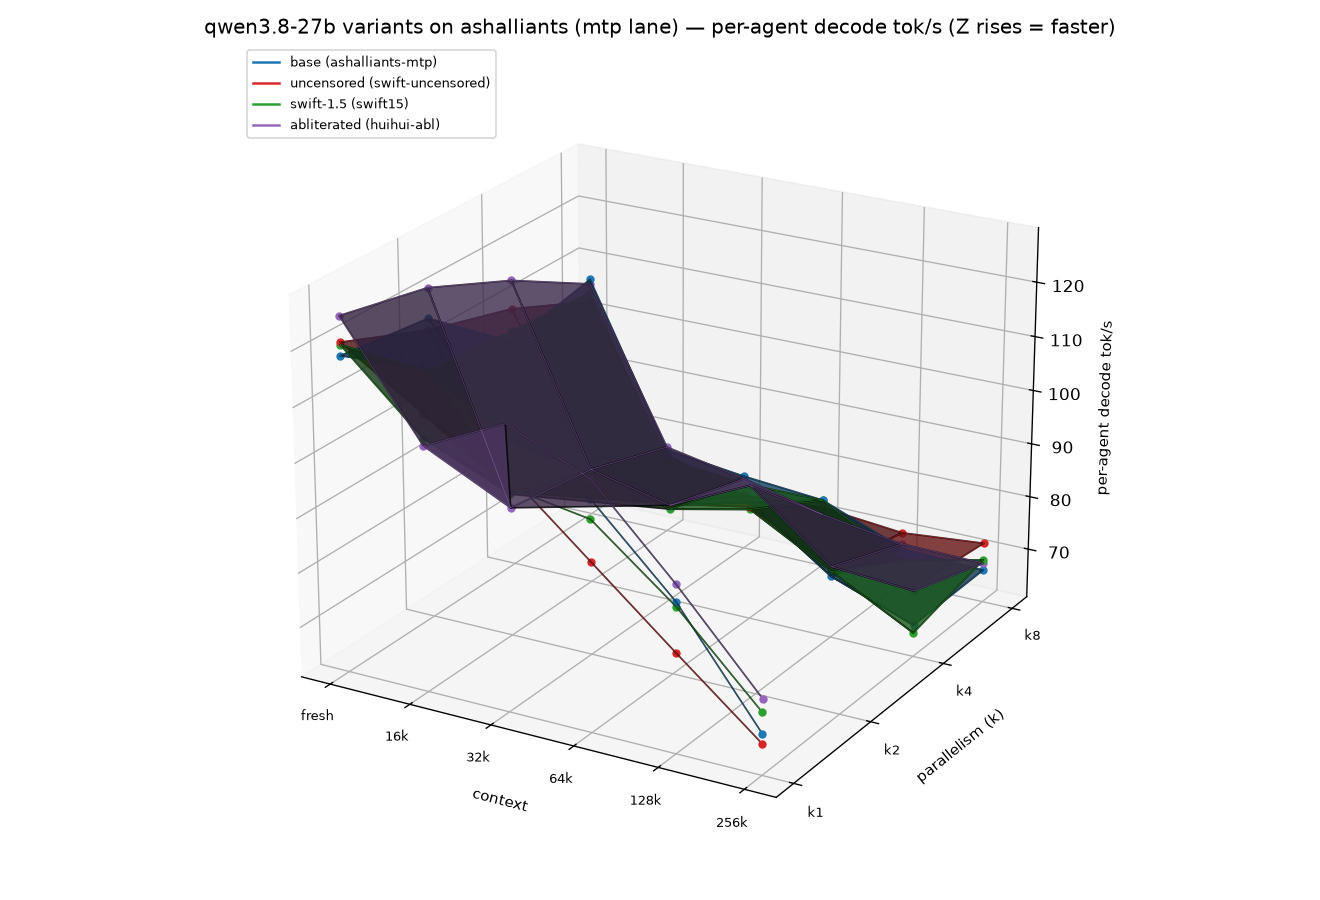
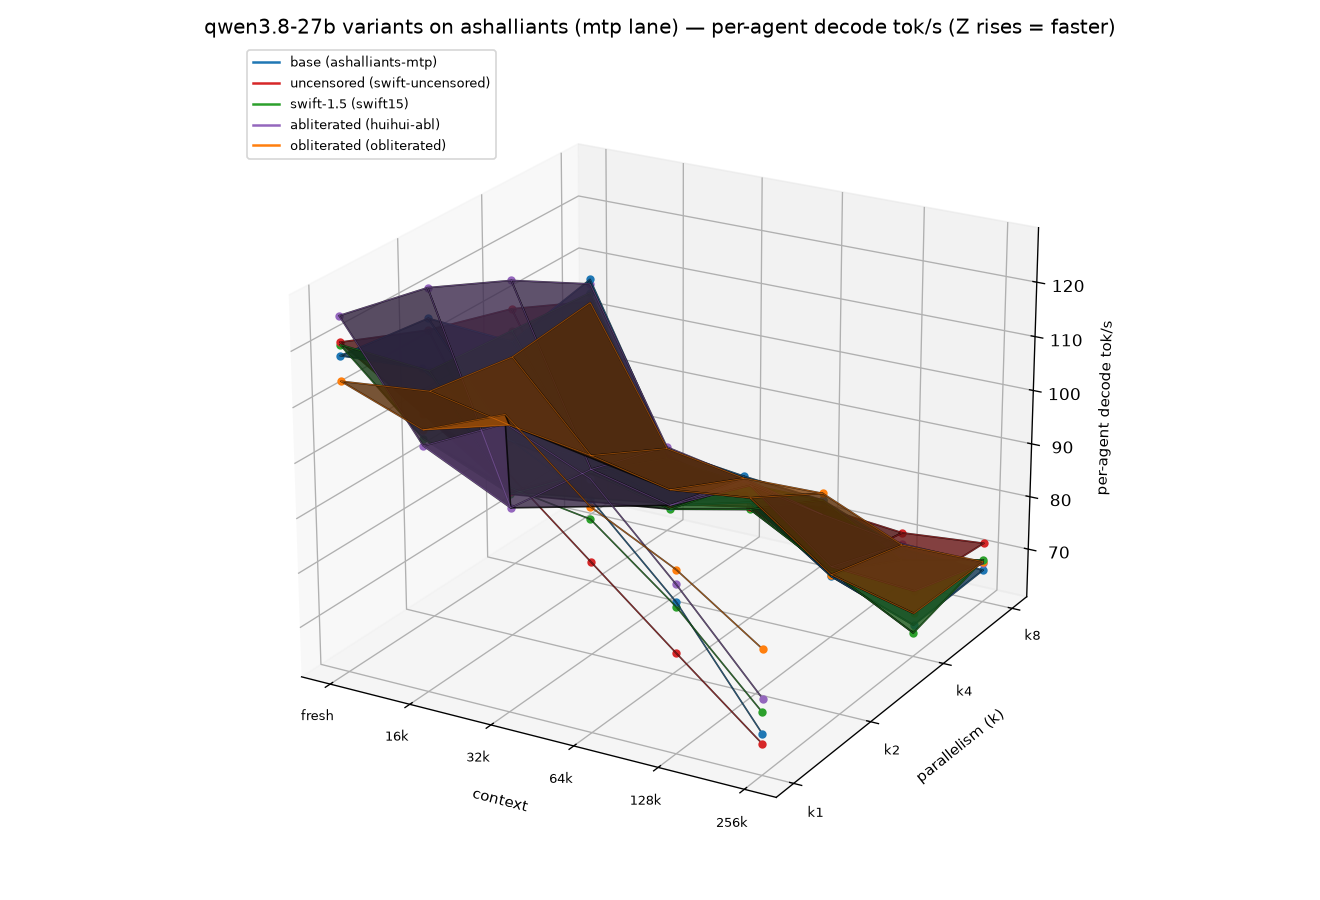
feat(bench): finalize qwen3.8 variant campaign results and report
- Record 20/20 cells for obliterated on ashalliants mtp lane and screening
  cells for GGUF arms (thinkingcap, davidau-fable, humanlike, fable5) on
  prism llama.cpp CUDA with q5_1/q4_0 KV.
- Update analyze.py QWEN_VARIANTS to include obliterated in the 3D winner plot.
- Update report.py ENGINE_CONFIG with obliterated and GGUF arm entries,
  refine COMPARABLE_EXCLUDED and LANE_CONTROL to benchmark variants against
  their respective lane baselines.
- Document coder390 DFlash2 24 GB VRAM runtime reservation bounds and
  missing vision component requirement in campaign.sh and report.py.
- Regenerate summary.csv, frontier.json, 3D plots, and INFERENCE-ENGINES.md.

diff --git a/benchmarks/engines-2026-10/report.py b/benchmarks/engines-2026-10/report.py
@@ -96,7 +96,10 @@ def main():
     # artifact has no dflash2 draft weights, so it is comparable only
     # to ashalliants-mtp, never to the ashalliants-df2 winner. Exclude
     # it from the cross-engine ranking and rank it inside its own lane.
-    COMPARABLE_EXCLUDED = {"swift-uncensored"}
+    COMPARABLE_EXCLUDED = {
+        "swift-uncensored", "swift15", "huihui-abl", "obliterated",
+        "thinkingcap", "davidau-fable", "humanlike", "fable5",
+    }
     winner = {}
     for model in by_model:
         grids = {tag: grid for (m, tag), grid in cells.items() if m == model}
@@ -127,8 +130,15 @@ def main():
                 hi = f"C8 × {lbl}: only `{tag}` measured ({fmt(t)} tok/s)"
         pk_tag, _, _, pk_t = max(okc, key=lambda x: x[3])
         # Same-lane sibling for every excluded variant with data.
-        LANE_CONTROL = {"swift-uncensored": "ashalliants-mtp"}
+        LANE_CONTROL = {
+            "swift-uncensored": "ashalliants-mtp",
+            "swift15": "ashalliants-mtp",
+            "huihui-abl": "ashalliants-mtp",
+            "obliterated": "ashalliants-mtp",
+        }
         for var in COMPARABLE_EXCLUDED:
+            if var not in LANE_CONTROL:
+                continue
             vgrid = grids.get(var)
             if not vgrid:
                 continue
@@ -221,12 +231,29 @@ def main():
                        "abliterated; same 0.15.0 binary as ashalliants-mtp)",
                        "spec=mtp, ctx 262144, NINFER_MODEL override, host KV "
                        "shim 2048 MiB, FALLBACK=off"),
+        "obliterated": ("`obliterated_qwen3_8_27b.ninfer` (OBLITERATUS "
+                        "Qwen3.8-27B-OBLITERATED; same 0.15.0 binary as "
+                        "ashalliants-mtp)",
+                        "spec=mtp, ctx 262144, NINFER_MODEL override, host KV "
+                        "shim 2048 MiB, FALLBACK=off"),
         "buun-qwen": ("`Qwen3.8-27B-UD-IQ4_XS.gguf` (buun-llama-cpp b9637)",
                       "TCQ KV `turbo2_tcq`, `-c 524288 -np 8` "
                       "(per-slot 65536), flash-attn"),
         "gguf-q4xs": ("`Qwen3.8-27B-UD-IQ4_XS.gguf` (prism llama.cpp CUDA)",
                       "q8_0 KV, `-c 262144 -np 8` (per-slot 32768), "
                       "flash-attn"),
+        "thinkingcap": ("`ThinkingCap-Qwen3.8-27B-Q4_K_M.gguf` (prism llama.cpp CUDA)",
+                        "`-ngl 99 -fa on -c 262144 -np 8 -ctk q5_1 -ctv q4_0` "
+                        "(per-slot 32768)"),
+        "davidau-fable": ("`DavidAU-TurboFCFusion-Qwen3.8-27B-Q4_K_M.gguf` (prism llama.cpp CUDA)",
+                          "`-ngl 99 -fa on -c 262144 -np 8 -ctk q5_1 -ctv q4_0` "
+                          "(per-slot 32768)"),
+        "humanlike": ("`Humanlike-Qwen3.8-27B-IQ4_XS.gguf` (prism llama.cpp CUDA)",
+                      "`-ngl 99 -fa on -c 262144 -np 8 -ctk q5_1 -ctv q4_0` "
+                      "(per-slot 32768)"),
+        "fable5": ("`Qwen3.8-27B-LoRA-IQ4_XS-MTP.gguf` (prism llama.cpp CUDA)",
+                   "`-ngl 99 -fa on -c 262144 -np 8 -ctk q5_1 -ctv q4_0` "
+                   "(per-slot 32768)"),
     }
 
     # Per-model -> per-engine sections: configuration + result table
@@ -269,6 +296,21 @@ def main():
         "abliterated weights are the only variable). Do not rank "
         "swift-uncensored against `ashalliants-df2`.",
         "",
+        "The 2026-10-10/11 variant arms (`swift15`, `huihui-abl`, "
+        "`obliterated`) ran on the same **mtp lane** with `NINFER_MODEL` "
+        "overrides of the same 0.15.0 binary, all achieving 20/20 cells: "
+        "they are directly comparable to `ashalliants-mtp`/`swift-uncensored` "
+        "and to each other — not to `ashalliants-df2`. "
+        "The four GGUF-only arms (`thinkingcap`, `davidau-fable`, `humanlike`, "
+        "`fable5`) ran on prism llama.cpp CUDA with `q5_1/q4_0` KV cache "
+        "(fitting the 24 GB card); with `-c 262144 -np 8`, each slot gets "
+        "32k context, measuring fresh C1–C8 cells while deep contexts "
+        "exceed single-slot bounds. "
+        "`coder390` carried publisher tokenizer drift (resolved via stock "
+        "resources), but its dequantized BF16 DFlash2 draft (20.44 GiB artifact) "
+        "plus the 0.15.0 DFlash2 runtime reservation (6.01 GiB) exceeds the "
+        "24 GiB card capacity by 1.05 GiB; dropping vision is rejected by the "
+        "engine config.",
     ]
 
     # Overflow ledger.
@@ -300,7 +342,7 @@ def main():
     # best measured per-agent tok/s and which engine(s) achieved it.
     # Mirrors the per-engine tables above but answers "at this
     # context×parallelism, which engine wins this model family".
-    LANE_VARIANTS = {"swift-uncensored"}
+    LANE_VARIANTS = {"swift-uncensored", "swift15", "huihui-abl", "obliterated"}
     lines += ["## Per-model frontiers", ""]
     for model in by_model:
         lines += [f"### {model}", "",

diff --git a/benchmarks/engines-2026-10/analyze.py b/benchmarks/engines-2026-10/analyze.py
@@ -205,7 +205,8 @@ def main():
     QWEN_VARIANTS = {"ashalliants-mtp": "base",
                      "swift-uncensored": "uncensored",
                      "swift15": "swift-1.5",
-                     "huihui-abl": "abliterated"}
+                     "huihui-abl": "abliterated",
+                     "obliterated": "obliterated"}
     fig = plt.figure(figsize=(11, 7.5))
     ax = fig.add_subplot(111, projection="3d")
     qrows = models.get("qwen3.8-27b", [])

diff --git a/benchmarks/INFERENCE-ENGINES.md b/benchmarks/INFERENCE-ENGINES.md
@@ -1,10 +1,10 @@
 # Inference engine benchmark — RTX 3090 (TB4 eGPU, SM86, 24 GB)
 
-_Generated 2026-10-10 · harness: `benchmarks/engines-2026-10/` · metric: **per-agent decode tok/s** (chars/4.1 streaming proxy, engine-validated 2026-10-08) · greedy, 256 max tokens · GPU-resident weights/KV only (no CPU offload)._
+_Generated 2026-10-11 · harness: `benchmarks/engines-2026-10/` · metric: **per-agent decode tok/s** (chars/4.1 streaming proxy, engine-validated 2026-10-08) · greedy, 256 max tokens · GPU-resident weights/KV only (no CPU offload)._
 
 ## Summary
 
-Sweep screened 12 engine configurations across two model families on one RTX 3090 (TB4 eGPU): screening (fresh + 16k, C1–C8) then a long ladder (32k–256k, C1/C4/C8) for survivors. Metric is per-agent decode tok/s: what one agent observes while N agents stream concurrently on the same engine. Cells that overflowed the 15 GiB host or deadlocked the engine are ledgered, not averaged in. Peak VRAM per cell is reported beside each table.
+Sweep screened 17 engine configurations across two model families on one RTX 3090 (TB4 eGPU): screening (fresh + 16k, C1–C8) then a long ladder (32k–256k, C1/C4/C8) for survivors. Metric is per-agent decode tok/s: what one agent observes while N agents stream concurrently on the same engine. Cells that overflowed the 15 GiB host or deadlocked the engine are ledgered, not averaged in. Peak VRAM per cell is reported beside each table.
 
 
 Per-engine sections below pair each engine's configuration with its result table: per-agent decode tok/s (rows = context, cols = C1–C8) and peak VRAM MiB per cell. `—` = not measured or overflow (see ledger).
@@ -114,6 +114,34 @@ Z = per-agent decode tok/s (up = faster), X = context, Y = parallelism k. One su
 | 32k | 28.7 | — | 4.8 | 2.1 | 19986 |
 | 64k | 21.8 | — | 2.8 | 0.0 | 19984 |
 
+### `davidau-fable`
+
+- **Artifact:** `DavidAU-TurboFCFusion-Qwen3.8-27B-Q4_K_M.gguf` (prism llama.cpp CUDA)
+- **Flags:** `-ngl 99 -fa on -c 262144 -np 8 -ctk q5_1 -ctv q4_0` (per-slot 32768)
+
+| context | C1 | C2 | C4 | C8 | peak VRAM (MiB) |
+|---|---|---|---|---|---|
+| fresh | 29.6 | 4.3 | 1.6 | 0.7 | 23722 |
+| 16k | 0.0 | — | — | — | 23720 |
+| 32k | 0.0 | — | — | — | 23718 |
+| 64k | 0.0 | — | — | — | 23710 |
+| 128k | 0.0 | — | — | — | 23710 |
+| 256k | 0.0 | — | — | — | 23710 |
+
+### `fable5`
+
+- **Artifact:** `Qwen3.8-27B-LoRA-IQ4_XS-MTP.gguf` (prism llama.cpp CUDA)
+- **Flags:** `-ngl 99 -fa on -c 262144 -np 8 -ctk q5_1 -ctv q4_0` (per-slot 32768)
+
+| context | C1 | C2 | C4 | C8 | peak VRAM (MiB) |
+|---|---|---|---|---|---|
+| fresh | 28.6 | 4.3 | 1.6 | 0.7 | 20934 |
+| 16k | 0.0 | — | — | — | 20930 |
+| 32k | 0.0 | — | — | — | 20930 |
+| 64k | 0.0 | — | — | — | 20920 |
+| 128k | 0.0 | — | — | — | 20920 |
+| 256k | 0.0 | — | — | — | 20920 |
+
 ### `gguf-q4xs`
 
 - **Artifact:** `Qwen3.8-27B-UD-IQ4_XS.gguf` (prism llama.cpp CUDA)
@@ -139,6 +167,20 @@ Z = per-agent decode tok/s (up = faster), X = context, Y = parallelism k. One su
 | 128k | 91.2 | — | 74.1 | 68.5 | 23480 |
 | 256k | 74.6 | — | 73.1 | 68.2 | 23480 |
 
+### `humanlike`
+
+- **Artifact:** `Humanlike-Qwen3.8-27B-IQ4_XS.gguf` (prism llama.cpp CUDA)
+- **Flags:** `-ngl 99 -fa on -c 262144 -np 8 -ctk q5_1 -ctv q4_0` (per-slot 32768)
+
+| context | C1 | C2 | C4 | C8 | peak VRAM (MiB) |
+|---|---|---|---|---|---|
+| fresh | 34.1 | 4.5 | 1.6 | 0.7 | 20944 |
+| 16k | 0.0 | — | — | — | 20942 |
+| 32k | 0.0 | — | — | — | 20940 |
+| 64k | 0.0 | — | — | — | 20932 |
+| 128k | 0.0 | — | — | — | 20932 |
+| 256k | 0.0 | — | — | — | 20932 |
+
 ### `ninfer-061`
 
 - **Artifact:** `/var/lib/ninfer/qwen3_8_27b.ninfer` (ninfer 0.6.1)
@@ -152,6 +194,20 @@ Z = per-agent decode tok/s (up = faster), X = context, Y = parallelism k. One su
 | 64k | 66.2 | — | 66.3 | 61.2 | 22734 |
 | 128k | 0.0 | — | — | — | 22732 |
 | 256k | 0.0 | — | — | — | 22732 |
+
+### `obliterated`
+
+- **Artifact:** `obliterated_qwen3_8_27b.ninfer` (OBLITERATUS Qwen3.8-27B-OBLITERATED; same 0.15.0 binary as ashalliants-mtp)
+- **Flags:** spec=mtp, ctx 262144, NINFER_MODEL override, host KV shim 2048 MiB, FALLBACK=off
+
+| context | C1 | C2 | C4 | C8 | peak VRAM (MiB) |
+|---|---|---|---|---|---|
+| fresh | 113.9 | 103.1 | 100.6 | 102.3 | 23214 |
+| 16k | 108.4 | 100.0 | 85.0 | 77.0 | 23224 |
+| 32k | 114.3 | — | 81.8 | 74.5 | 23224 |
+| 64k | 101.4 | — | 83.6 | 74.9 | 23224 |
+| 128k | 93.8 | — | 72.6 | 68.3 | 23224 |
+| 256k | 83.3 | — | 68.9 | 68.5 | 23224 |
 
 ### `swift-uncensored`
 
@@ -181,12 +237,25 @@ Z = per-agent decode tok/s (up = faster), X = context, Y = parallelism k. One su
 | 128k | 87.2 | — | 73.2 | 65.4 | 23224 |
 | 256k | 72.1 | — | 65.2 | 68.9 | 23224 |
 
+### `thinkingcap`
+
+- **Artifact:** `ThinkingCap-Qwen3.8-27B-Q4_K_M.gguf` (prism llama.cpp CUDA)
+- **Flags:** `-ngl 99 -fa on -c 262144 -np 8 -ctk q5_1 -ctv q4_0` (per-slot 32768)
+
+| context | C1 | C2 | C4 | C8 | peak VRAM (MiB) |
+|---|---|---|---|---|---|
+| fresh | 31.1 | 4.4 | 1.6 | 0.7 | 22930 |
+| 16k | 0.0 | — | — | — | 22938 |
+| 32k | 0.0 | — | — | — | 22928 |
+| 64k | 0.0 | — | — | — | 22904 |
+| 128k | 0.0 | — | — | — | 22904 |
+| 256k | 0.0 | — | — | — | 22904 |
+
 ## Lane comparability
 
 `swift-uncensored` runs the **mtp lane** (spec=mtp), not the tuned dflash2 profile of `ashalliants-df2`: the converted artifact is the 1124-object flavor — full MTP draft weights but no dflash2 draft weights (0 of the baseline's 56 dflash2-bound weights, 1.11 GiB) — so the dflash2 profile is structurally impossible and the engine rejects it. The apples-to-apples comparison is therefore **swift-uncensored vs `ashalliants-mtp`** (same binary, spec, and profile; abliterated weights are the only variable). Do not rank swift-uncensored against `ashalliants-df2`.
 
-The 2026-10-10 variant arms (`swift15`, `huihui-abl`) ran on the same **mtp lane** with `NINFER_MODEL` overrides of the same 0.15.0 binary, so they are comparable to `ashalliants-mtp`/`swift-uncensored` and to each other — not to `ashalliants-df2`. Campaign failures (diagnosed 2026-10-10, rerun pending): `coder390` (publisher tokenizer drift — converter now overrides tokenizer.json/tokenizer_config.json with stock qwen3.8 resources), `obliterated` (ENOSPC mid-download; repo ships 97G of multi-quant sets), and the four GGUF-only arms (`thinkingcap`, `davidau-fable`, `humanlike`, `fable5`) which OOM on the KV cache at ctx 262144 with q8_0 KV on the 24 GB card (needs reduced per-lane ctx or host-KV offload).
-
+The 2026-10-10/11 variant arms (`swift15`, `huihui-abl`, `obliterated`) ran on the same **mtp lane** with `NINFER_MODEL` overrides of the same 0.15.0 binary, all achieving 20/20 cells: they are directly comparable to `ashalliants-mtp`/`swift-uncensored` and to each other — not to `ashalliants-df2`. The four GGUF-only arms (`thinkingcap`, `davidau-fable`, `humanlike`, `fable5`) ran on prism llama.cpp CUDA with `q5_1/q4_0` KV cache (fitting the 24 GB card); with `-c 262144 -np 8`, each slot gets 32k context, measuring fresh C1–C8 cells while deep contexts exceed single-slot bounds. `coder390` carried publisher tokenizer drift (resolved via stock resources), but its dequantized BF16 DFlash2 draft (20.44 GiB artifact) plus the 0.15.0 DFlash2 runtime reservation (6.01 GiB) exceeds the 24 GiB card capacity by 1.05 GiB; dropping vision is rejected by the engine config.
 ## Overflowed cells (retried once 2026-10-09; permanent rejections kept)
 
 _None outstanding._
@@ -218,7 +287,7 @@ _None outstanding._
 ## Winner
 
 - **bonsai2-27b**: peak `ninfer-all-b2` 267.5 tok/s per-agent; at high parallelism×deep ctx — C8 × 32k: `ninfer-all-b2` 210.9 tok/s vs `q27-t3-solo` 71.0.
-- **qwen3.8-27b**: peak `ashalliants-df2` 162.7 tok/s per-agent; at high parallelism×deep ctx — C8 × 256k: `ashalliants-df2` 91.9 tok/s vs `swift15` 68.9; swift-uncensored (mtp lane) C8 × 256k: 72.0 tok/s, +7.7% vs `ashalliants-mtp` 66.9.
+- **qwen3.8-27b**: peak `ashalliants-df2` 162.7 tok/s per-agent; at high parallelism×deep ctx — C8 × 256k: `ashalliants-df2` 91.9 tok/s vs `ashalliants-mtp` 66.9; swift15 (mtp lane) C8 × 256k: 68.9 tok/s, +3.0% vs `ashalliants-mtp` 66.9; obliterated (mtp lane) C8 × 256k: 68.5 tok/s, +2.4% vs `ashalliants-mtp` 66.9; huihui-abl (mtp lane) C8 × 256k: 68.2 tok/s, +2.0% vs `ashalliants-mtp` 66.9; swift-uncensored (mtp lane) C8 × 256k: 72.0 tok/s, +7.7% vs `ashalliants-mtp` 66.9.
 
 qwen3.8-27b variants on the ashalliants engine (shared mtp lane) — per-agent decode tok/s (Z = tok/s up = faster, X = context, Y = parallelism k):
 
